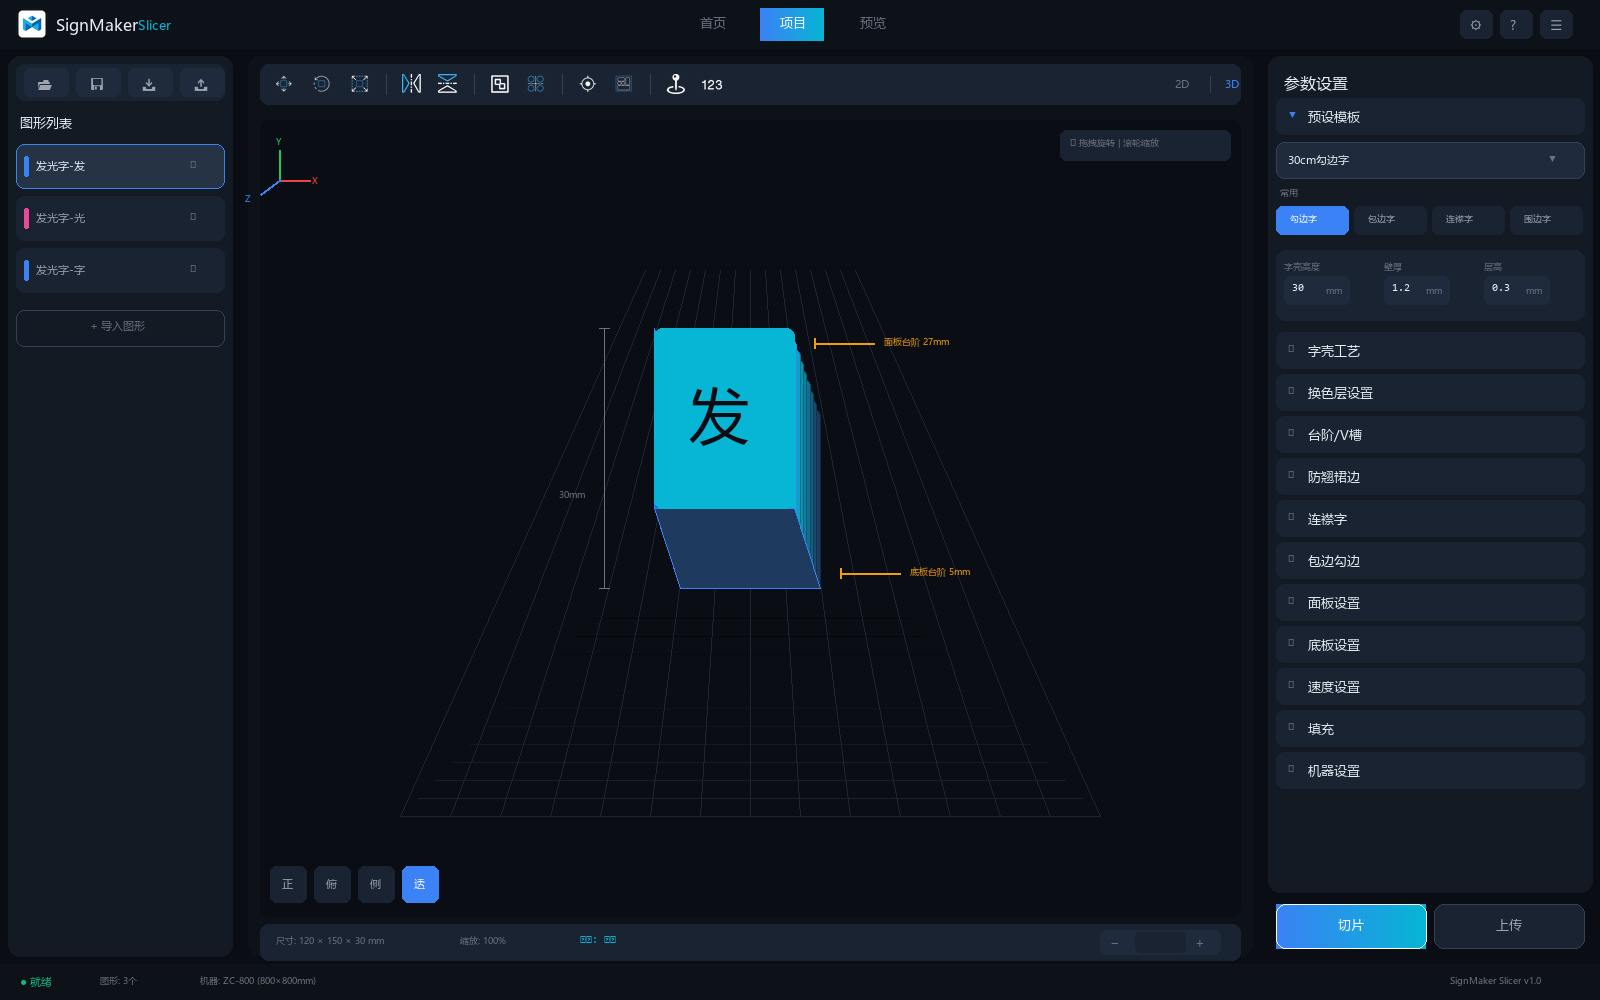
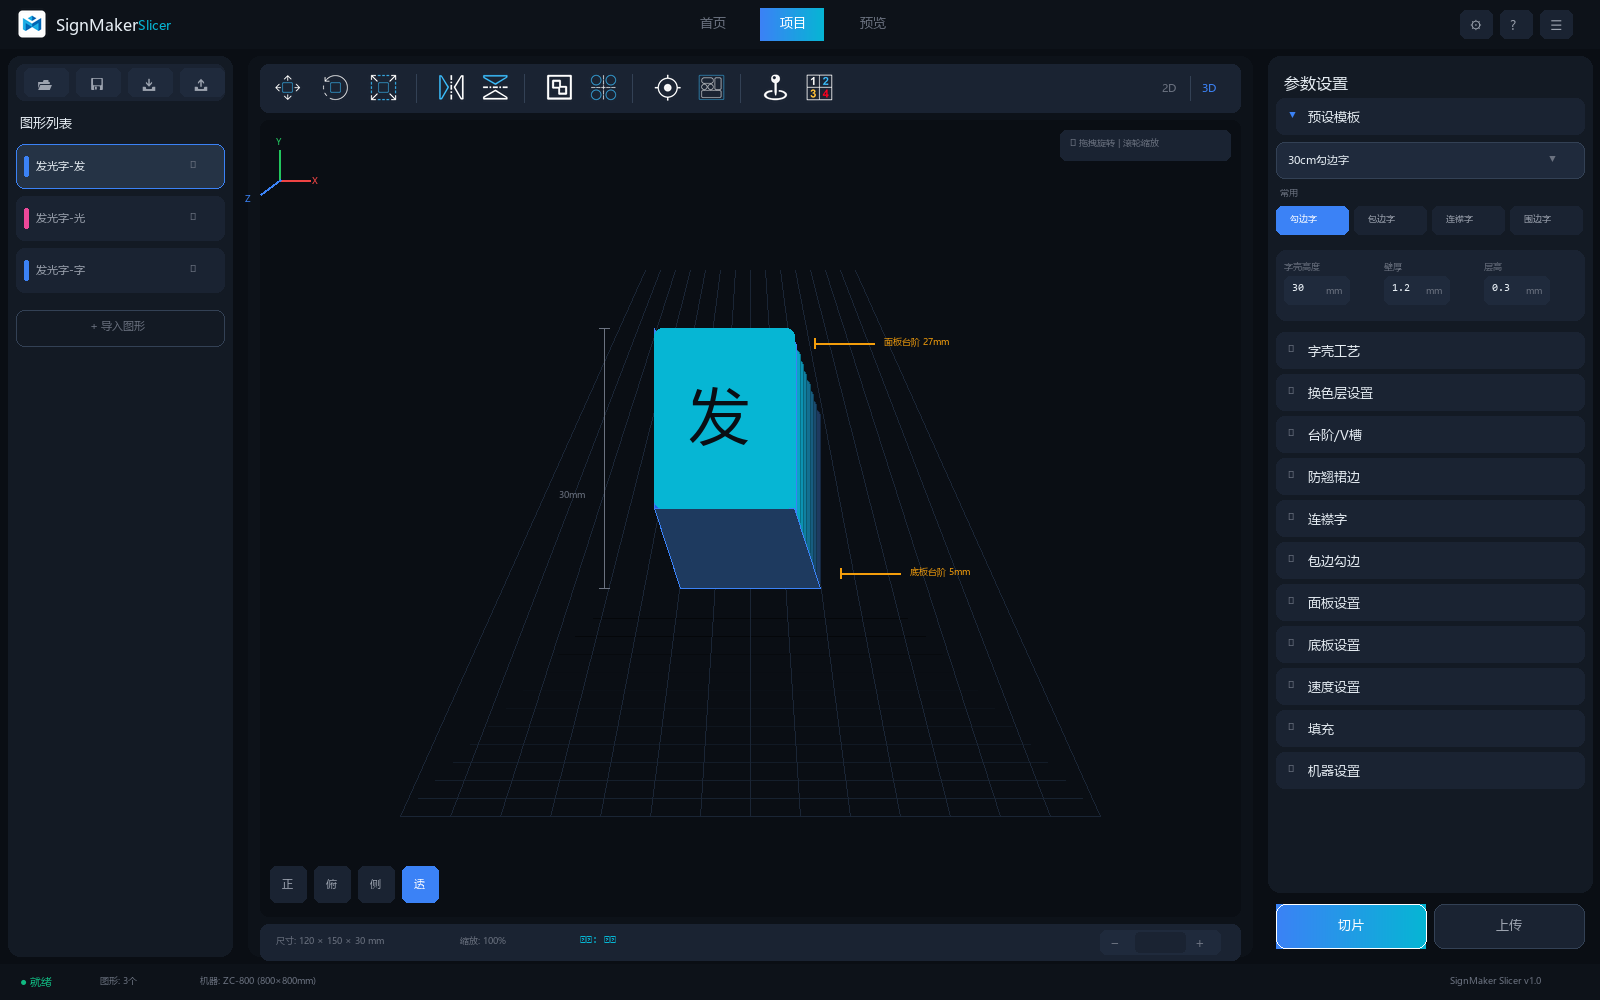
再次工具栏图片

Changed region(s): [[0.1562, 0.062, 0.7812, 0.124]]

diff --git a/scripts/generate_ui_project_3d.py b/scripts/generate_ui_project_3d.py
@@ -182,7 +182,7 @@ draw_rounded_rect(canvas_x + 8, canvas_y + 8, canvas_w - 16, canvas_h - 16, 12, 
 
 # 顶部画布工具栏
 canvas_toolbar_y = canvas_y + 16
-draw_rounded_rect(canvas_x + 20, canvas_toolbar_y, canvas_w - 40, 40, 8, fill=C["bg_card"])
+draw_rounded_rect(canvas_x + 20, canvas_toolbar_y, canvas_w - 40, 48, 8, fill=C["bg_card"])
 
 # 图标目录
 icons_dir = os.path.join(os.path.dirname(__file__), "..", "docs", "images")
@@ -195,7 +195,7 @@ toolbar_icons = [
 ]
 
 etx = canvas_x + 28
-icon_size = 20
+icon_size = 32
 
 # 编辑工具组1 - 变换操作 (移动/旋转/缩放)
 for icon_file, active in toolbar_icons:
@@ -203,19 +203,19 @@ for icon_file, active in toolbar_icons:
     icon = load_icon(icon_path, icon_size)
     
     if active:
-        draw_rounded_rect(etx, canvas_toolbar_y + 6, 32, 28, 6, fill=C["accent_primary"])
+        draw_rounded_rect(etx, canvas_toolbar_y + 8, 40, 32, 6, fill=C["accent_primary"])
     
     if icon:
         # 粘贴图标到画布
-        icon_x = etx + 6
-        icon_y = canvas_toolbar_y + 10
+        icon_x = etx + 4
+        icon_y = canvas_toolbar_y + 8
         img.paste(icon, (icon_x, icon_y), icon)
     
-    etx += 38
+    etx += 48
 
 # 分隔线
-draw.line([(etx + 4, canvas_toolbar_y + 10), (etx + 4, canvas_toolbar_y + 30)], fill=C["border_default"])
-etx += 16
+draw.line([(etx + 4, canvas_toolbar_y + 10), (etx + 4, canvas_toolbar_y + 38)], fill=C["border_default"])
+etx += 20
 
 # 编辑工具组2 - 镜像操作
 mirror_icons = [("mirror_x.png", "水平"), ("mirror_y.png", "垂直")]
@@ -223,12 +223,12 @@ for icon_file, label in mirror_icons:
     icon_path = os.path.join(icons_dir, icon_file)
     icon = load_icon(icon_path, icon_size)
     if icon:
-        img.paste(icon, (etx + 4, canvas_toolbar_y + 10), icon)
-    etx += 36
+        img.paste(icon, (etx + 4, canvas_toolbar_y + 8), icon)
+    etx += 44
 
 # 分隔线
-draw.line([(etx + 4, canvas_toolbar_y + 10), (etx + 4, canvas_toolbar_y + 30)], fill=C["border_default"])
-etx += 16
+draw.line([(etx + 4, canvas_toolbar_y + 10), (etx + 4, canvas_toolbar_y + 38)], fill=C["border_default"])
+etx += 20
 
 # 编辑工具组3 - 组合操作
 group_icons = [("组合.png", "组合"), ("split_objects_dark.png", "打散")]
@@ -236,12 +236,12 @@ for icon_file, label in group_icons:
     icon_path = os.path.join(icons_dir, icon_file)
     icon = load_icon(icon_path, icon_size)
     if icon:
-        img.paste(icon, (etx + 4, canvas_toolbar_y + 10), icon)
-    etx += 36
+        img.paste(icon, (etx + 4, canvas_toolbar_y + 8), icon)
+    etx += 44
 
 # 分隔线
-draw.line([(etx + 4, canvas_toolbar_y + 10), (etx + 4, canvas_toolbar_y + 30)], fill=C["border_default"])
-etx += 16
+draw.line([(etx + 4, canvas_toolbar_y + 10), (etx + 4, canvas_toolbar_y + 38)], fill=C["border_default"])
+etx += 20
 
 # 编辑工具组4 - 排版操作
 layout_icons = [("画面中心.png", "页面中心"), ("arrange.png", "自动排版")]
@@ -249,33 +249,33 @@ for icon_file, label in layout_icons:
     icon_path = os.path.join(icons_dir, icon_file)
     icon = load_icon(icon_path, icon_size)
     if icon:
-        img.paste(icon, (etx + 4, canvas_toolbar_y + 10), icon)
-    etx += 36
+        img.paste(icon, (etx + 4, canvas_toolbar_y + 8), icon)
+    etx += 44
 
 # 分隔线
-draw.line([(etx + 4, canvas_toolbar_y + 10), (etx + 4, canvas_toolbar_y + 30)], fill=C["border_default"])
-etx += 16
+draw.line([(etx + 4, canvas_toolbar_y + 10), (etx + 4, canvas_toolbar_y + 38)], fill=C["border_default"])
+etx += 20
 
 # 编辑工具组5 - 起始点设置
 icon_path = os.path.join(icons_dir, "起始点.png")
 icon = load_icon(icon_path, icon_size)
 if icon:
-    img.paste(icon, (etx + 4, canvas_toolbar_y + 10), icon)
-etx += 36
+    img.paste(icon, (etx + 4, canvas_toolbar_y + 8), icon)
+etx += 44
 
 # 编辑工具组6 - 打印顺序编辑
 icon_path = os.path.join(icons_dir, "顺序.png")
 icon = load_icon(icon_path, icon_size)
 if icon:
-    img.paste(icon, (etx + 4, canvas_toolbar_y + 10), icon)
-etx += 36
+    img.paste(icon, (etx + 4, canvas_toolbar_y + 8), icon)
+etx += 44
 
 # 视图切换 (最右侧) - 3D激活状态
-view_x = canvas_x + canvas_w - 100  # 工具栏右边距
-draw_text(view_x + 15, canvas_toolbar_y + 12, "2D", font_body, C["text_muted"])
-draw.line([(view_x + 50, canvas_toolbar_y + 12), (view_x + 50, canvas_toolbar_y + 28)], fill=C["border_default"])
+view_x = canvas_x + canvas_w - 110  # 工具栏右边距
+draw_text(view_x + 12, canvas_toolbar_y + 16, "2D", font_body, C["text_muted"])
+draw.line([(view_x + 40, canvas_toolbar_y + 12), (view_x + 40, canvas_toolbar_y + 36)], fill=C["border_default"])
 # 3D激活
-draw_text(view_x + 65, canvas_toolbar_y + 12, "3D", font_body, C["accent_primary"])
+draw_text(view_x + 52, canvas_toolbar_y + 16, "3D", font_body, C["accent_primary"])
 
 # 3D画布内容区
 inner_canvas_y = canvas_toolbar_y + 56

diff --git a/scripts/generate_ui_modern.py b/scripts/generate_ui_modern.py
@@ -211,7 +211,7 @@ draw_rounded_rect(canvas_x + 8, canvas_y + 8, canvas_w - 16, canvas_h - 16, 12, 
 
 # 顶部画布工具栏
 canvas_toolbar_y = canvas_y + 16
-draw_rounded_rect(canvas_x + 20, canvas_toolbar_y, canvas_w - 40, 40, 8, fill=C["bg_card"])
+draw_rounded_rect(canvas_x + 20, canvas_toolbar_y, canvas_w - 40, 48, 8, fill=C["bg_card"])
 
 # 图标目录
 icons_dir = os.path.join(os.path.dirname(__file__), "..", "docs", "images")
@@ -224,7 +224,7 @@ toolbar_icons = [
 ]
 
 etx = canvas_x + 28
-icon_size = 20
+icon_size = 32
 
 # 编辑工具组1 - 变换操作 (移动/旋转/缩放)
 for icon_file, active in toolbar_icons:
@@ -232,19 +232,19 @@ for icon_file, active in toolbar_icons:
     icon = load_icon(icon_path, icon_size)
     
     if active:
-        draw_rounded_rect(etx, canvas_toolbar_y + 6, 32, 28, 6, fill=C["accent_primary"])
+        draw_rounded_rect(etx, canvas_toolbar_y + 8, 40, 32, 6, fill=C["accent_primary"])
     
     if icon:
         # 粘贴图标到画布
-        icon_x = etx + 6
-        icon_y = canvas_toolbar_y + 10
+        icon_x = etx + 4
+        icon_y = canvas_toolbar_y + 8
         img.paste(icon, (icon_x, icon_y), icon)
     
-    etx += 38
+    etx += 48
 
 # 分隔线
-draw.line([(etx + 4, canvas_toolbar_y + 10), (etx + 4, canvas_toolbar_y + 30)], fill=C["border_default"])
-etx += 16
+draw.line([(etx + 4, canvas_toolbar_y + 10), (etx + 4, canvas_toolbar_y + 38)], fill=C["border_default"])
+etx += 20
 
 # 编辑工具组2 - 镜像操作
 mirror_icons = [("mirror_x.png", "水平"), ("mirror_y.png", "垂直")]
@@ -252,12 +252,12 @@ for icon_file, label in mirror_icons:
     icon_path = os.path.join(icons_dir, icon_file)
     icon = load_icon(icon_path, icon_size)
     if icon:
-        img.paste(icon, (etx + 4, canvas_toolbar_y + 10), icon)
-    etx += 36
+        img.paste(icon, (etx + 4, canvas_toolbar_y + 8), icon)
+    etx += 44
 
 # 分隔线
-draw.line([(etx + 4, canvas_toolbar_y + 10), (etx + 4, canvas_toolbar_y + 30)], fill=C["border_default"])
-etx += 16
+draw.line([(etx + 4, canvas_toolbar_y + 10), (etx + 4, canvas_toolbar_y + 38)], fill=C["border_default"])
+etx += 20
 
 # 编辑工具组3 - 组合操作
 group_icons = [("组合.png", "组合"), ("split_objects_dark.png", "打散")]
@@ -265,12 +265,12 @@ for icon_file, label in group_icons:
     icon_path = os.path.join(icons_dir, icon_file)
     icon = load_icon(icon_path, icon_size)
     if icon:
-        img.paste(icon, (etx + 4, canvas_toolbar_y + 10), icon)
-    etx += 36
+        img.paste(icon, (etx + 4, canvas_toolbar_y + 8), icon)
+    etx += 44
 
 # 分隔线
-draw.line([(etx + 4, canvas_toolbar_y + 10), (etx + 4, canvas_toolbar_y + 30)], fill=C["border_default"])
-etx += 16
+draw.line([(etx + 4, canvas_toolbar_y + 10), (etx + 4, canvas_toolbar_y + 38)], fill=C["border_default"])
+etx += 20
 
 # 编辑工具组4 - 排版操作
 layout_icons = [("画面中心.png", "页面中心"), ("arrange.png", "自动排版")]
@@ -278,32 +278,32 @@ for icon_file, label in layout_icons:
     icon_path = os.path.join(icons_dir, icon_file)
     icon = load_icon(icon_path, icon_size)
     if icon:
-        img.paste(icon, (etx + 4, canvas_toolbar_y + 10), icon)
-    etx += 36
+        img.paste(icon, (etx + 4, canvas_toolbar_y + 8), icon)
+    etx += 44
 
 # 分隔线
-draw.line([(etx + 4, canvas_toolbar_y + 10), (etx + 4, canvas_toolbar_y + 30)], fill=C["border_default"])
-etx += 16
+draw.line([(etx + 4, canvas_toolbar_y + 10), (etx + 4, canvas_toolbar_y + 38)], fill=C["border_default"])
+etx += 20
 
 # 编辑工具组5 - 起始点设置
 icon_path = os.path.join(icons_dir, "起始点.png")
 icon = load_icon(icon_path, icon_size)
 if icon:
-    img.paste(icon, (etx + 4, canvas_toolbar_y + 10), icon)
-etx += 36
+    img.paste(icon, (etx + 4, canvas_toolbar_y + 8), icon)
+etx += 44
 
 # 编辑工具组6 - 打印顺序编辑
 icon_path = os.path.join(icons_dir, "顺序.png")
 icon = load_icon(icon_path, icon_size)
 if icon:
-    img.paste(icon, (etx + 4, canvas_toolbar_y + 10), icon)
-etx += 36
+    img.paste(icon, (etx + 4, canvas_toolbar_y + 8), icon)
+etx += 44
 
 # 视图切换 (最右侧)
-view_x = canvas_x + canvas_w - 100  # 工具栏右边距
-draw_text(view_x + 15, canvas_toolbar_y + 12, "2D", font_body, C["accent_primary"])
-draw.line([(view_x + 50, canvas_toolbar_y + 12), (view_x + 50, canvas_toolbar_y + 28)], fill=C["border_default"])
-draw_text(view_x + 65, canvas_toolbar_y + 12, "3D", font_body, C["text_muted"])
+view_x = canvas_x + canvas_w - 110  # 工具栏右边距
+draw_text(view_x + 12, canvas_toolbar_y + 16, "2D", font_body, C["accent_primary"])
+draw.line([(view_x + 40, canvas_toolbar_y + 12), (view_x + 40, canvas_toolbar_y + 36)], fill=C["border_default"])
+draw_text(view_x + 52, canvas_toolbar_y + 16, "3D", font_body, C["text_muted"])
 
 # 画布内容区
 inner_canvas_y = canvas_toolbar_y + 56
